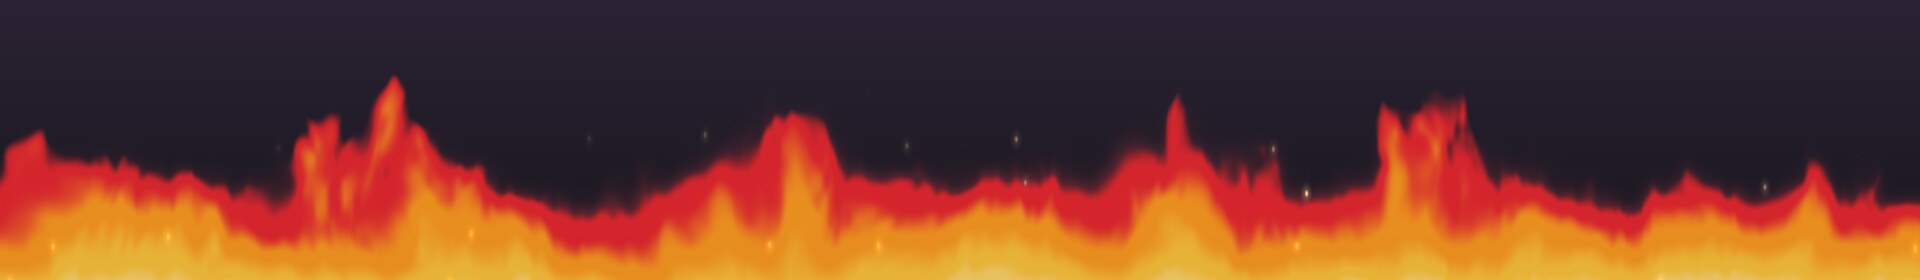
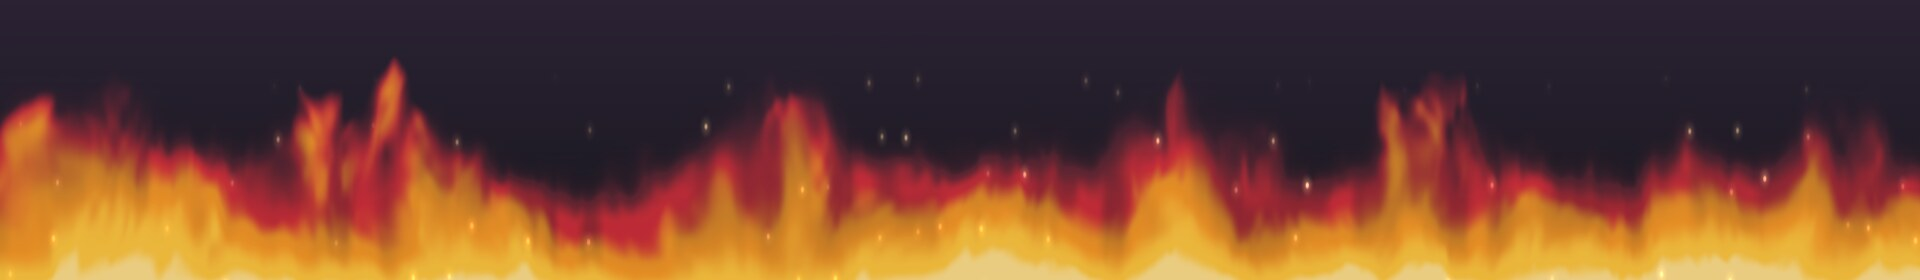
Blend fire with the wallpaper like real fire: emission + absorption
Fire is a light source, not paint. The flame body used plain "over"
blending, so it sat on the wallpaper like a sticker. With premultiplied
alpha (result = rgb + wallpaper * (1 - a)) the shader now sets the two
halves separately:

  emission (rgb)   the flame's own light, added rather than averaged, so
                   colors stay luminous; cooler tips glow a little dimmer
  absorption (a)   how much wallpaper the flame hides, tied to temperature:
                   wispy tips are see-through, the white-hot core near solid

Cool parts also break into fine, fast streaks, because an even
translucent red reads as tinted glass rather than flame. Edges feather
wider as translucency rises.

New fire.translucency setting (default 0.6, 0 = the old solid look) with
a slider in the Fire card. Bright wallpapers wash translucent flames out
like daylight does, so the hint suggests lowering it there.

diff --git a/iron_will/settings/qml/pages/AppearancePage.qml b/iron_will/settings/qml/pages/AppearancePage.qml
@@ -105,6 +105,11 @@ PageScaffold {
             format: function (v) { return Math.round(v * 100) + "%" }
         }
         SliderRow {
+            key: "fire.translucency"; label: "Translucency"; decimals: 2
+            description: "How much the wallpaper shows through, like real fire: wispy tips go first, the hot core stays bright. Lower it on bright wallpapers."
+            format: function (v) { return Math.round(v * 100) + "%" }
+        }
+        SliderRow {
             key: "fire.intensity"; label: "Intensity"; decimals: 2
             description: "How hard the music drives the fire: kick surges, height, heat"
             format: function (v) { return Math.round(v * 100) + "%" }

diff --git a/iron_will/visualizer/qml/Visualizer.qml b/iron_will/visualizer/qml/Visualizer.qml
@@ -39,5 +39,6 @@ Item {
         property color tipColor: vis.fireTip
         property color midColor: vis.fireMid
         property color bodyColor: vis.fireBody
+        property real translucency: vis.fireTranslucency
     }
 }

diff --git a/iron_will/visualizer/renderer.py b/iron_will/visualizer/renderer.py
@@ -153,6 +153,7 @@ class VisualizerItem(QQuickPaintedItem):
     fireLook = Property(QVector4D, lambda self: QVector4D(
         self._cfg["fire.height"], self._cfg["fire.sparks"],
         1.0 if self._cfg["visualizer.direction"] == "up" else 0.0, 0.0), notify=fireStyleChanged)
+    fireTranslucency = Property(float, lambda self: self._cfg["fire.translucency"], notify=fireStyleChanged)
     fireColsA = Property(QVector4D, lambda self: _vec4(self._fire.columns, 0), notify=fireFrame)
     fireColsB = Property(QVector4D, lambda self: _vec4(self._fire.columns, 4), notify=fireFrame)
     fireColsC = Property(QVector4D, lambda self: _vec4(self._fire.columns, 8), notify=fireFrame)

diff --git a/iron_will/config.py b/iron_will/config.py
@@ -137,6 +137,7 @@ FIELDS: tuple[Field, ...] = (
     Field("fire", "intensity", 1.0, "How hard the music drives the fire", 0.3, 2.0),
     Field("fire", "sparks", 0.6, "Spark amount: embers thrown up by snare and cymbal hits (0 = none)", 0.0, 1.0),
     Field("fire", "speed", 1.0, "Flame speed: how fast the flames churn (the music speeds them up further)", 0.3, 2.5),
+    Field("fire", "translucency", 0.6, "How see-through the flames are: 0 = solid, 1 = ghostly (hot cores stay bright)", 0.0, 1.0),
     Field("fire", "palette", "colors", "Flame colors: your gradient colors, or natural fire",
           choices=("colors", "natural")),
     # Motion

diff --git a/README.md b/README.md
@@ -55,6 +55,7 @@ Stylized flames drawn by a GPU shader, built for rock and metal. Each part of th
 
 Metal is mastered loud, so the level barely moves and a fire that followed plain loudness would sit at full height. Instead, each detector tracks how far its part of the spectrum jumps above its own recent average, scaled against the biggest recent hit. A kick still lands on top of a wall of guitars.
 
+- **Blending:** fire is light, not paint. The flames *add* their glow to your wallpaper and only partly hide it: wispy tips are see-through, the hot core is nearly solid. The **Translucency** slider goes from solid stylized flames to ghostly; lower it on bright wallpapers, where translucent flames wash out like fire in daylight.
 - **Colors:** *Your colors* uses your gradient (first stop at the base, last at the tips, so the **Ascend** preset gives orange→crimson fire and a cool gradient gives blue fire). *Natural fire* ignores your colors.
 - **Height:** fire needs room. It comes alive at 220–300 px, and the Fire card offers a one-click resize when your visualizer is shorter.
 - **Cost:** about 8% of one CPU core in testing (bars: ~46% at the same size), because the GPU draws every pixel. Like the other modes, it stops completely after the idle fade.
